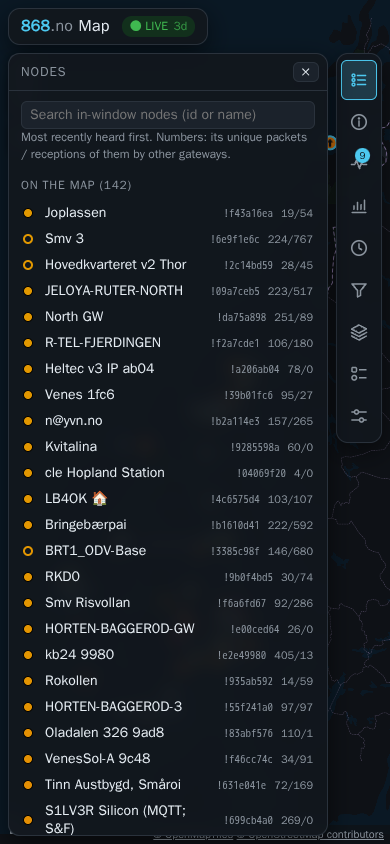
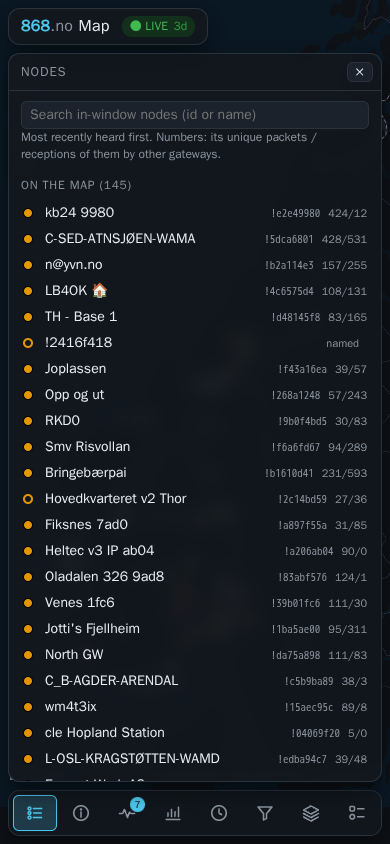
Lay the tool rail along the bottom on phones
On screens up to 820 px the rail becomes a horizontal bar along the bottom edge: the tools run left to right in the desktop's top-to-bottom order and scroll sideways when they don't fit. The open panel sits on the rail and grows upwards to below the header; the scale bar, coordinates and credits move above the rail, and the start view and camera framing keep clear of both (D-132).

diff --git a/frontend/src/index.css b/frontend/src/index.css
@@ -365,25 +365,36 @@ table.hear th:not(:first-child), table.hear td:not(:first-child) { white-space: 
 .maplibregl-ctrl-group button .maplibregl-ctrl-icon { filter: var(--ctrl-icon-filter); }
 .maplibregl-ctrl-scale { background: var(--overlay) !important; color: var(--muted) !important; border-color: var(--muted) !important; }
 
-/* Mobile: map fills the screen; the rail starts below the header, and the panel
-   opens beside it as on desktop, spanning the rest of the width. */
+/* Mobile: map fills the screen; the rail lies along the bottom edge, its
+   tools left to right in desktop's top-to-bottom order, scrolling sideways
+   when they don't fit. The panel spans the width and sits on the rail,
+   growing upwards to below the header (D-132). */
 @media (max-width: 820px) {
-  .app { --gap: 8px; }
-  .rail { top: calc(var(--head-h) + 2 * var(--gap)); }
+  .app { --gap: 8px; --rail-h: 56px; }
+  .rail { top: auto; bottom: var(--gap); left: var(--gap); right: var(--gap); width: auto; height: var(--rail-h); flex-direction: row; gap: 2px; padding: 4px;
+    overflow-x: auto; overflow-y: hidden; overscroll-behavior-x: contain; scrollbar-width: none; -webkit-overflow-scrolling: touch; }
+  .rail::-webkit-scrollbar { display: none; }
+  .rail-btn { flex: 0 0 auto; min-width: 58px; justify-content: center; padding: 5px 4px 4px; }
+  .rail-badge { right: 8px; }
   /* Above the map controls it covers. */
-  .dock { top: calc(var(--head-h) + 2 * var(--gap)); left: var(--gap); width: auto; max-height: calc(100% - var(--head-h) - 3 * var(--gap)); z-index: 12; }
+  .dock { top: auto; bottom: calc(var(--rail-h) + 2 * var(--gap)); left: var(--gap); right: var(--gap); width: auto; max-height: calc(100% - var(--head-h) - var(--rail-h) - 4 * var(--gap)); z-index: 12; }
   .dock-resize { display: none; } /* spans the width: nothing to resize */
   /* Nothing beside the header now: it may take the full width. */
   .topbar, .main:not(.panel-closed) .topbar { max-width: calc(100% - 2 * var(--gap)); }
   .topbar-row { white-space: nowrap; }
-  .banners, .main:not(.panel-closed) .banners { right: calc(var(--rail) + 3 * var(--gap)); left: 10px; }
+  .banners, .main:not(.panel-closed) .banners { right: 10px; left: 10px; }
   .counters { display: none; }
+  /* What lies along the bottom edge moves up above the rail. */
+  .maplibregl-ctrl-bottom-left, .maplibregl-ctrl-bottom-right { bottom: calc(var(--rail-h) + var(--gap)); }
+  .attribution { bottom: calc(var(--rail-h) + 2 * var(--gap)); right: var(--gap); border-radius: 4px; }
+  .coords { bottom: calc(var(--rail-h) + 2 * var(--gap) + 22px); }
 }
 /* Phones: a slimmer rail, icons only (labels stay as accessible names and tooltips). */
 @media (max-width: 560px) {
-  .app { --rail: 46px; }
+  .app { --rail-h: 46px; }
   .rail-label { display: none; }
-  .rail-btn { padding: 9px 2px; }
+  .rail-btn { min-width: 44px; padding: 4px; }
+  .rail-badge { top: 1px; right: 3px; }
 }
 @media (prefers-reduced-motion: reduce) {
   .spinner { animation: none; }

diff --git a/frontend/src/map/camera.ts b/frontend/src/map/camera.ts
@@ -9,18 +9,25 @@ type LngLat = [number, number]
 /** Frames a fly-to waits for the panel that a selection opens (about 0.2 s). */
 const PANEL_WAIT_FRAMES = 12
 
-/** Pixels of the map covered by the floating header (top) and the open panel (right edge, or the top on phones). */
+/** Pixels of the map covered by the floating header (top), the open panel
+ * (right edge; on phones the bottom, above the rail) and the rail when it lies
+ * along the bottom edge (phones). */
 function covered(container: HTMLElement | null): { top: number; right: number; bottom: number } {
+  if (!container) return { top: 0, right: 0, bottom: 0 }
+  const a = container.getBoundingClientRect()
   const head = document.getElementById('topbar')
-  const top = head && container ? Math.max(0, head.getBoundingClientRect().bottom - container.getBoundingClientRect().top) : 0
+  const top = head ? Math.max(0, head.getBoundingClientRect().bottom - a.top) : 0
+  // On phones the rail is a bar along the bottom (D-132).
+  const rail = document.querySelector('.rail')?.getBoundingClientRect()
+  const railBottom = rail && rail.width > rail.height ? Math.max(0, a.bottom - rail.top) : 0
   const panel = document.getElementById('dock')
-  if (!panel || panel.hidden || !container) return { top, right: 0, bottom: 0 }
-  const a = container.getBoundingClientRect(), b = panel.getBoundingClientRect()
-  // The side panel is narrow. On phones it spans most of the width from below
-  // the header down: frame content beneath it, unless it leaves too little map.
-  if (b.width < a.width * 0.6) return { top, right: Math.max(0, a.right - b.left), bottom: 0 }
-  const below = Math.max(0, b.bottom - a.top)
-  return { top: a.height - below >= 160 ? Math.max(top, below) : top, right: 0, bottom: 0 }
+  if (!panel || panel.hidden) return { top, right: 0, bottom: railBottom }
+  const b = panel.getBoundingClientRect()
+  // The side panel is narrow. On phones it spans the width, sitting on the
+  // rail and growing upwards: frame content above it, unless it leaves too little map.
+  if (b.width < a.width * 0.6) return { top, right: Math.max(0, a.right - b.left), bottom: railBottom }
+  const below = Math.max(0, a.bottom - b.top)
+  return { top, right: 0, bottom: a.height - below - top >= 160 ? Math.max(railBottom, below) : railBottom }
 }
 
 export function useCamera(

diff --git a/frontend/e2e/app.spec.ts b/frontend/e2e/app.spec.ts
@@ -192,8 +192,25 @@ test('rejects nothing silently: invalid URL windows fall back, mobile layout wor
   await expect(page.locator('#dock')).toBeHidden()
   // Fit first: an open phone panel covers the map's lower controls.
   await page.getByRole('button', { name: 'Fit to data' }).click()
+  // The rail lies along the bottom, tools left to right in the desktop's
+  // top-to-bottom order, and scrolls sideways when they don't fit (D-132).
+  const rail = page.locator('.rail')
+  const r = (await rail.boundingBox())!
+  expect(r.width).toBeGreaterThan(r.height)
+  expect(844 - (r.y + r.height)).toBeLessThan(20)
+  const xs = await rail.locator('.rail-btn').evaluateAll((bs) => bs.map((b) => b.getBoundingClientRect().left))
+  expect(xs).toEqual([...xs].sort((p, q) => p - q))
+  expect(await rail.locator('.rail-btn').first().getAttribute('aria-label')).toBe('Nodes')
+  expect(await rail.evaluate((e) => e.scrollWidth > e.clientWidth)).toBe(true)
+  await rail.evaluate((e) => e.scrollTo({ left: e.scrollWidth }))
+  await expect(rail.getByRole('button', { name: 'Settings', exact: true })).toBeInViewport()
+  await rail.evaluate((e) => e.scrollTo({ left: 0 }))
   await openPanel(page)
   await expect(page.locator('#dock')).toBeVisible()
+  // The panel sits on the rail, growing upwards.
+  const d = (await page.locator('#dock').boundingBox())!
+  expect(r.y - (d.y + d.height)).toBeGreaterThan(0)
+  expect(r.y - (d.y + d.height)).toBeLessThan(12)
   await expect(page.locator('.live-indicator')).toBeVisible()
   await expect(page.locator('.node-row').first()).toBeVisible()
   await page.waitForTimeout(1500)

diff --git a/frontend/src/map/MapView.tsx b/frontend/src/map/MapView.tsx
@@ -26,7 +26,7 @@ const NORWAY_BOUNDS: [[number, number], [number, number]] = [[4.5, 57.9], [31.2,
 const NORWAY_FOCUS_LON = 13.5
 /** The start view's centre longitude: the focus, clamped so both ends of the country stay in view. */
 export function startLon(width: number, zoom: number): number {
-  const p = startPadding(width)
+  const p = startPadding()
   const degPerPx = 360 / (512 * 2 ** zoom)
   const [[west], [east]] = NORWAY_BOUNDS
   const lo = east - (width / 2 - p.right) * degPerPx // further west and Finnmark leaves the view
@@ -54,15 +54,15 @@ function saveView(map: maplibregl.Map) {
   }
 }
 
-/** Room around the country; on the right, for the floating tool rail. */
-const startPadding = (width = window.innerWidth) => {
-  const narrow = width <= 560
+/** Room around the country: below the header, and clear of the tool rail
+ * (on the right; along the bottom on phones, D-132). */
+const startPadding = () => {
   // Below the floating header (D-082).
   const head = document.getElementById('topbar')?.offsetHeight ?? 50
-  return { top: head + 24, bottom: 16, left: 16, right: narrow ? 64 : 92 }
+  const rail = document.querySelector('.rail')?.getBoundingClientRect()
+  if (rail && rail.width > rail.height) return { top: head + 24, bottom: 16 + window.innerHeight - rail.top, left: 16, right: 16 }
+  return { top: head + 24, bottom: 16, left: 16, right: rail ? 16 + window.innerWidth - rail.left : 92 }
 }
-
-
 
 interface Props {
   caps: Capabilities

diff --git a/docs/design.md b/docs/design.md
@@ -406,10 +406,10 @@ UI chrome floats over the map, which runs edge to edge and never resizes (checke
 
 - **Header island** (top left): the wordmark, the live indicator (LIVE, LIVE (paused) or HISTORICAL with the window's length, and an updating spinner) on one line, the counters below; on phones the counters are hidden. It is a rounded card with the islands' border, blur and shadow. Its height is published as `--head-h`; MapLibre's zoom buttons, the fit control and banners sit below it, stacked above its shadow, and camera framing keeps content clear of it. Until the first snapshot arrives each counter shows a faint placeholder bar about as wide as a typical value (tabular figures), so the card keeps its size (D-082). Clicking the live indicator opens the Period panel; "Return to live" sits beside it while a fixed window is shown (D-067).
 - **Trends** (D-104): the Trends panel, in the rail after Health: Daily, Weekly or Monthly bars for nodes heard (new ones highlighted), gateways, packets and receptions, packets by type over the whole period, and a table of every bucket, newest first, from `/api/v1/trends` in the viewer's time zone. It ignores the window and filters.
-- **Tool rail** (right edge): Nodes, Details, Health, Trends, Period, Filters, Layers, Legend, Settings. Icons carry short labels, which narrow screens drop (kept as accessible names and tooltips). The Filters button shows how many filters differ from the defaults (D-066, D-067); the Health button, how many problems and warnings the window has (D-095). The open panel can be resized by dragging its left edge (or arrow keys on that handle; double-click resets to 380 px), between 300 px and 900 px while leaving the map at least 220 px; the width is remembered in the browser. On phones the panel spans the width and has no handle (D-097).
-- **Panel:** one at a time, docked beside the rail; its header names and closes it. Pressing the open panel's button again or Escape (unless typing) closes it. It is as tall as its content up to the bottom margin, scrolling inside past that; on phones the rail starts below the header and the panel opens beside it, from the same top and across the rest of the width, over the map controls (D-066, D-071).
+- **Tool rail** (right edge; on phones and narrow tablets, up to 820 px, a horizontal bar along the bottom edge with the same tools left to right, scrolling sideways when they don't fit, D-132): Nodes, Details, Health, Trends, Period, Filters, Layers, Legend, Settings. Icons carry short labels, which narrow screens drop (kept as accessible names and tooltips). The Filters button shows how many filters differ from the defaults (D-066, D-067); the Health button, how many problems and warnings the window has (D-095). The open panel can be resized by dragging its left edge (or arrow keys on that handle; double-click resets to 380 px), between 300 px and 900 px while leaving the map at least 220 px; the width is remembered in the browser. On phones the panel spans the width and has no handle (D-097).
+- **Panel:** one at a time, docked beside the rail; its header names and closes it. Pressing the open panel's button again or Escape (unless typing) closes it. It is as tall as its content up to the bottom margin, scrolling inside past that; on phones it spans the width and sits on the bottom rail, its bottom edge on the rail's top edge, growing upwards to below the header, over the map controls (D-066, D-071, D-132).
 - **Islands:** the rail and panel are translucent, blurred rounded cards inset 10 px from the map's edges (8 px on phones) (D-071). Two elevation tokens are the only drop shadows, `--elev-island` and `--elev-float` (banners, tooltips, map controls); labels on the map stay flat (D-081).
-- **Map controls:** zoom, "Fit to data" and "Reset north" (icon buttons in a group under the zoom buttons; mouse drag never rotates the map, but a two-finger twist or Shift+arrow keys do, and the needle shows the bearing), scale bar, a coordinate readout on hover and the credits. The coordinates and credits stay in the bottom-right corner whatever opens; a panel may partly cover them (D-082). Banners and camera framing keep clear of the open panel, telling the side panel from the phone panel by width; on phones, framing places content below the panel when at least 160 px of map remain, and banners lie beneath an open panel (D-071).
+- **Map controls:** zoom, "Fit to data" and "Reset north" (icon buttons in a group under the zoom buttons; mouse drag never rotates the map, but a two-finger twist or Shift+arrow keys do, and the needle shows the bearing), scale bar, a coordinate readout on hover and the credits. The coordinates and credits stay in the bottom-right corner whatever opens; a panel may partly cover them (D-082). On phones they and the scale bar sit just above the bottom rail (D-132). Banners and camera framing keep clear of the open panel, telling the side panel from the phone panel by width; on phones, framing keeps clear of the bottom rail and places content above the panel when at least 160 px of map remain between it and the header, and banners lie beneath an open panel (D-071).
 
 ### 7.2 Basemap and layers
 
